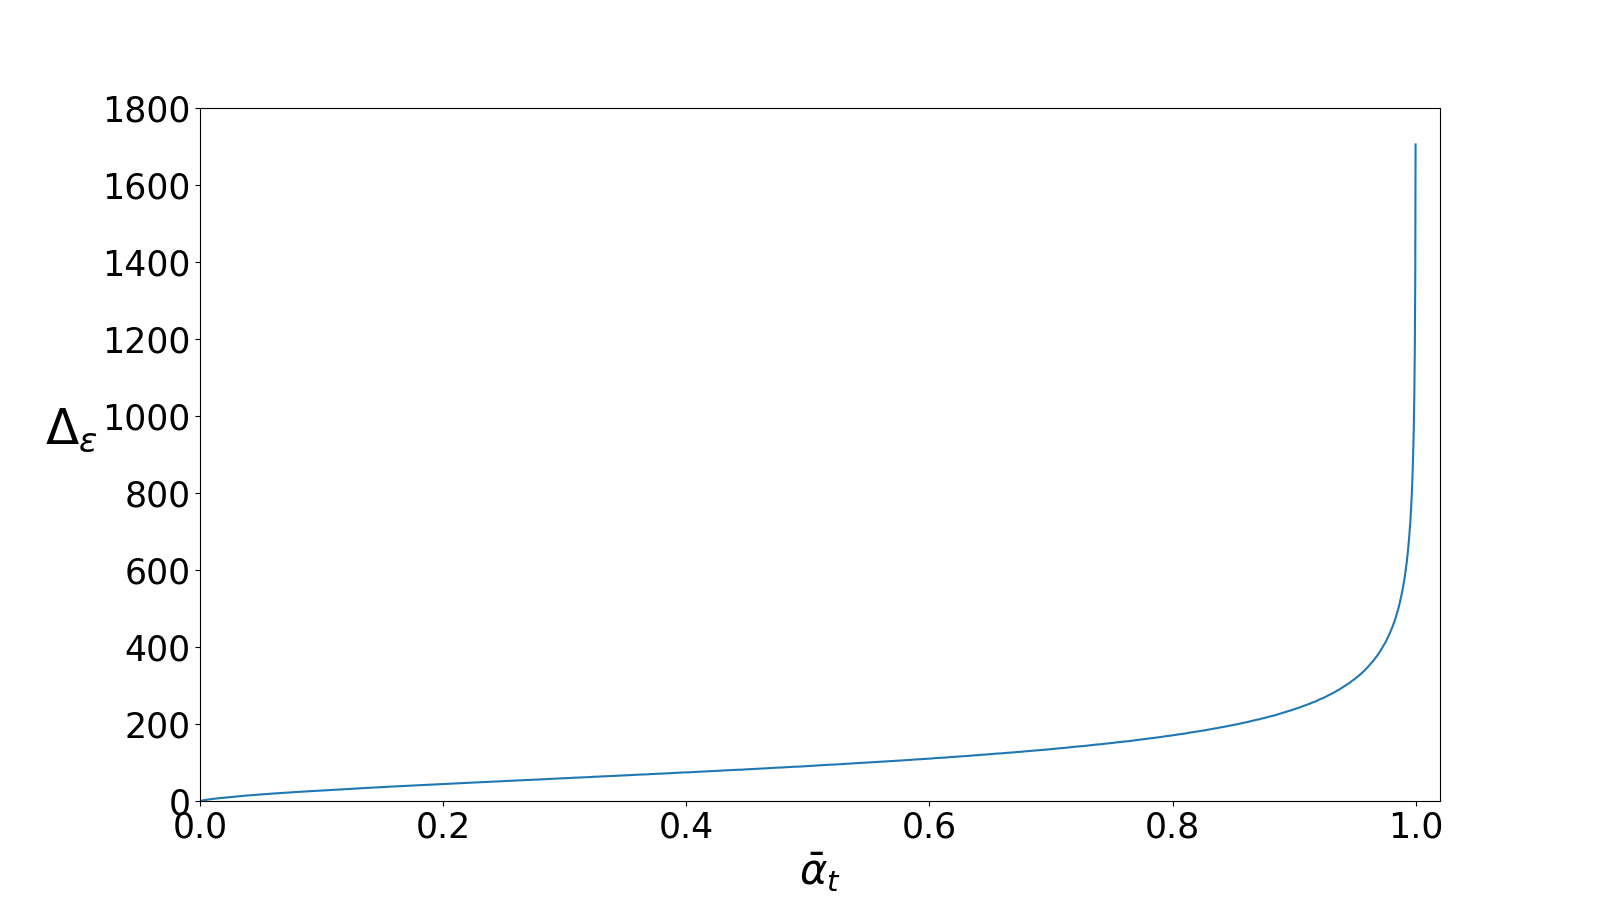
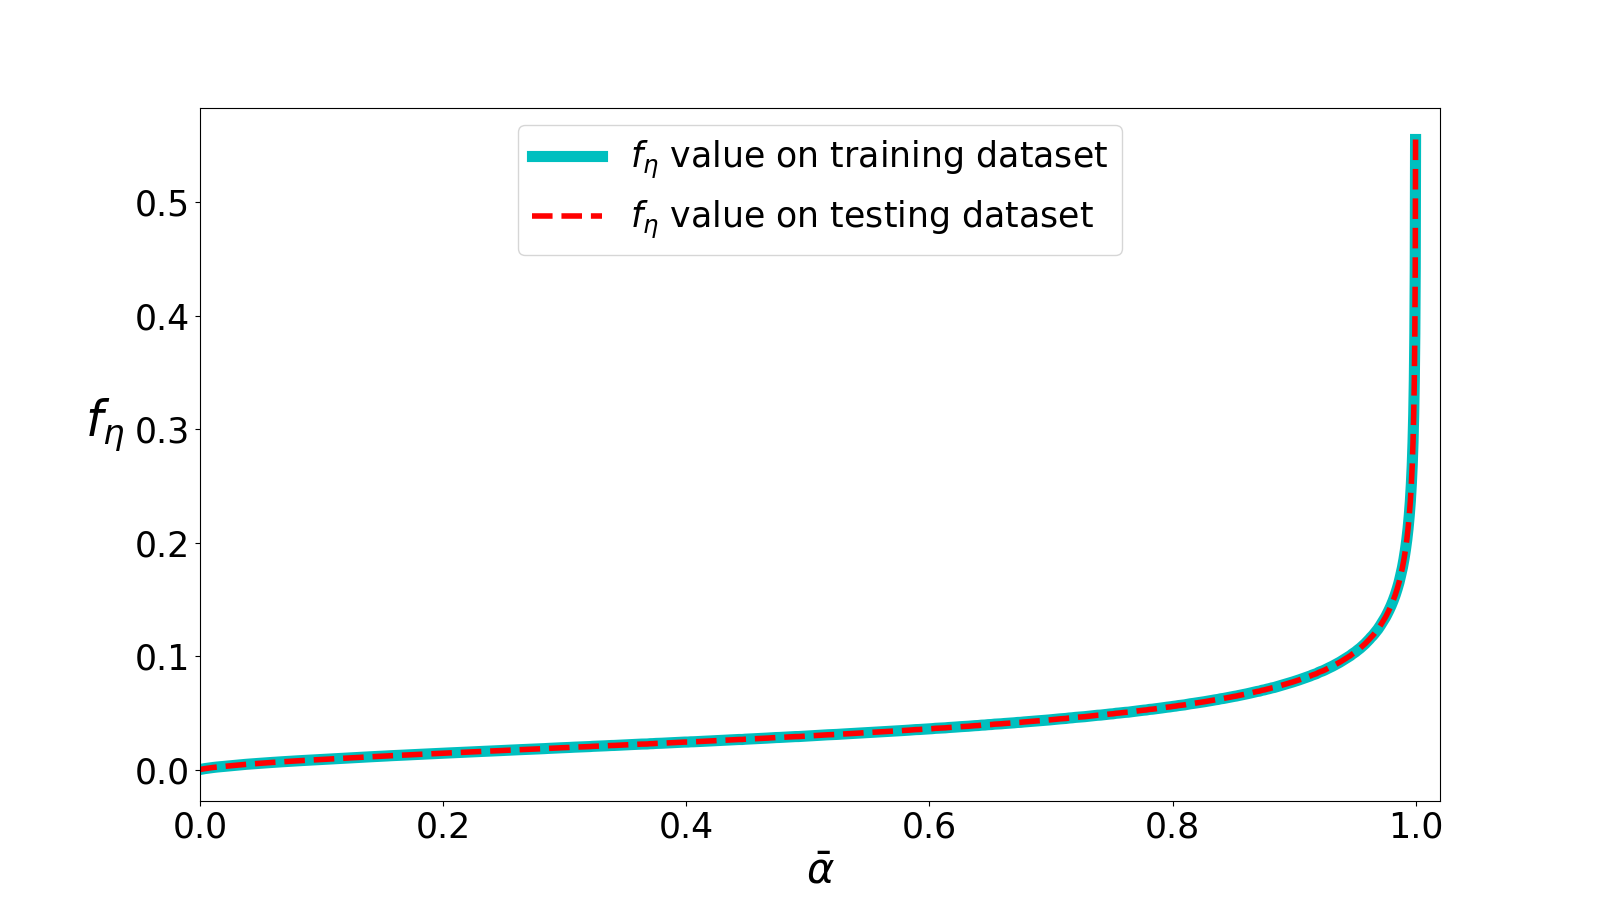
main_chart.py: prediction error compare between training data and testing data.

diff --git a/main_chart.py b/main_chart.py
@@ -63,7 +63,7 @@ def merge_image():
         tv.utils.save_image([i1, i2], f3, nrow=1)
 
 def mse_error_vs_alpha_bar():
-    mse_error = [1705.3052, 1490.751, 1357.769, 1259.209, 1180.147, 1113.053, 1055.815, 1005.528, 961.6980, 922.2376,
+    mse_train = [1705.3052, 1490.751, 1357.769, 1259.209, 1180.147, 1113.053, 1055.815, 1005.528, 961.6980, 922.2376,
                  886.3626,  853.1224, 823.6397, 796.1513, 771.5246, 748.0213, 725.7368, 705.6533, 687.2634, 668.8577,
                  652.3686,  636.5029, 621.7116, 607.7314, 594.3815, 581.1665, 569.1201, 557.7317, 546.3212, 535.7988,
                  526.3934,  516.0354, 506.2507, 497.1383, 488.9288, 480.4435, 472.5754, 464.8413, 457.6023, 450.4096,
@@ -163,6 +163,106 @@ def mse_error_vs_alpha_bar():
                  0.0763,    0.0755,   0.0742,   0.0732,   0.0725,   0.0711,   0.0704,   0.0697,   0.0689,   0.0679,
                  0.0671,    0.0662,   0.0652,   0.0644,   0.0632,   0.0626,   0.0617,   0.0612,   0.0606,   0.0594,
                  0.0590,    0.0581,   0.0576,   0.0570,   0.0562,   0.0555,   0.0549,   0.0545,   0.0539,   0.0534]
+    mse_test  = [1705.305, 1490.751, 1357.769, 1259.209, 1180.147, 1113.052, 1055.814, 1005.528, 961.6980, 922.2376,
+                 886.3626, 853.1224, 823.6397, 796.1513, 771.5246, 748.0213, 725.7368, 705.6533, 687.2634, 668.8577,
+                 652.3686, 636.5029, 621.7116, 607.7314, 594.3815, 581.1665, 569.1201, 557.7317, 546.3212, 535.7988,
+                 526.3934, 516.0354, 506.2507, 497.1383, 488.9288, 480.4435, 472.5754, 464.8413, 457.6023, 450.4096,
+                 443.5321, 436.8423, 430.5373, 424.2699, 418.0489, 412.0598, 406.6159, 400.7833, 395.1656, 390.1971,
+                 385.0297, 379.6522, 375.0673, 370.0567, 365.7768, 361.3683, 357.5555, 352.8554, 348.5974, 344.4448,
+                 340.2772, 336.7190, 332.7570, 328.8578, 325.5562, 322.0782, 318.4112, 315.4662, 312.2982, 308.5296,
+                 305.5826, 302.5058, 299.2368, 296.7647, 293.5805, 290.5803, 287.8286, 284.9799, 282.5154, 279.5815,
+                 277.1923, 274.6056, 271.8127, 269.2436, 266.8705, 264.9790, 262.6287, 259.5336, 257.6445, 255.7327,
+                 253.2283, 251.1605, 248.8405, 247.1809, 245.1223, 242.9071, 240.9020, 238.6637, 236.9742, 235.1563,
+                 233.1047, 231.2142, 229.5569, 227.6611, 225.9228, 224.2408, 222.0648, 220.8499, 218.9794, 217.5237,
+                 215.6276, 214.4675, 212.2608, 211.2312, 209.5897, 207.9467, 206.5449, 204.8998, 203.5736, 201.9733,
+                 200.6272, 199.0281, 197.8833, 196.4148, 195.0383, 193.7037, 192.3497, 191.3696, 189.6585, 188.6138,
+                 187.2588, 185.8104, 184.6033, 183.3989, 182.2334, 180.9580, 179.9383, 178.8401, 177.8477, 176.3954,
+                 174.9611, 174.1767, 173.1423, 171.7789, 170.8738, 169.5992, 168.7716, 167.5242, 166.4832, 165.5540,
+                 164.3672, 163.3144, 162.6938, 161.2135, 160.5441, 159.3985, 158.4887, 157.5202, 156.3539, 155.2134,
+                 154.7291, 153.6995, 152.8994, 152.2177, 150.8117, 150.2221, 149.2547, 148.2679, 147.2931, 146.8859,
+                 145.9328, 145.1746, 143.8815, 143.0784, 142.4243, 141.6891, 141.1239, 140.0489, 139.3714, 138.2265,
+                 137.6741, 136.9887, 136.0607, 135.3512, 134.3541, 133.6739, 132.9657, 132.2595, 131.7923, 130.6665,
+                 130.1509, 129.3978, 128.7098, 127.7371, 127.3843, 126.4210, 125.8299, 125.1344, 124.5666, 123.7103,
+                 123.1872, 122.8112, 121.7882, 121.3710, 120.4093, 120.0775, 119.1173, 118.6743, 117.8459, 117.1546,
+                 116.7661, 116.1730, 115.4415, 114.8156, 114.3402, 113.6634, 112.7953, 112.3872, 111.7422, 111.5167,
+                 110.5641, 109.9418, 109.4167, 108.8275, 108.2795, 107.9979, 107.2655, 106.5904, 106.1220, 105.4803,
+                 104.9201, 104.3856, 103.8021, 103.4547, 102.7982, 102.3114, 101.8574, 101.2055, 100.5852, 100.2613,
+                 99.7880,  99.1088,  98.5425,  98.2047,  97.6593,  97.2044,  96.7800,  96.1823,  95.5994,  95.0609,
+                 94.7589,  94.2668,  93.9356,  93.4147,  92.7418,  92.1927,  91.8088,  91.1356,  90.7743,  90.4670,
+                 89.7975,  89.2281,  89.1319,  88.6145,  88.2058,  87.6820,  87.2445,  86.7831,  86.5592,  85.9622,
+                 85.5060,  85.0054,  84.5894,  84.1799,  83.8106,  83.3989,  83.0173,  82.4999,  82.0417,  81.2653,
+                 81.2808,  80.8565,  80.3103,  79.8974,  79.7311,  79.4685,  78.7124,  78.3692,  78.0367,  77.6269,
+                 77.2734,  76.8840,  76.3997,  76.1165,  75.6622,  75.0944,  74.9530,  74.3371,  74.3220,  73.8984,
+                 73.5931,  73.0424,  72.7156,  72.2662,  71.8400,  71.5151,  71.1261,  70.9025,  70.6319,  70.0502,
+                 69.8508,  69.1014,  69.1003,  68.8406,  68.4542,  68.0255,  67.5860,  67.1134,  66.9351,  66.6637,
+                 66.2207,  66.0162,  65.6299,  65.1595,  65.0152,  64.4956,  64.2421,  63.9557,  63.6129,  63.2795,
+                 62.8452,  62.7248,  62.1553,  61.8995,  61.5551,  61.1821,  61.0390,  60.8323,  60.4939,  60.0583,
+                 59.7300,  59.5000,  59.1240,  58.8828,  58.4195,  58.2287,  57.9792,  57.4583,  57.3090,  56.8279,
+                 56.5400,  56.2844,  56.1274,  55.7306,  55.4490,  55.0650,  54.9266,  54.5190,  54.2934,  54.1284,
+                 53.7494,  53.4853,  53.1171,  52.7800,  52.4800,  52.2412,  52.1112,  51.7029,  51.3073,  51.1136,
+                 50.8783,  50.6329,  50.3606,  50.0936,  49.8246,  49.5731,  49.2575,  48.9859,  48.6540,  48.5090,
+                 48.1911,  47.8937,  47.6356,  47.3534,  47.1068,  46.9312,  46.6893,  46.3831,  46.1534,  45.9448,
+                 45.6155,  45.1919,  45.0898,  44.7300,  44.6251,  44.3876,  44.1818,  43.7717,  43.5999,  43.3299,
+                 43.1016,  42.7425,  42.6224,  42.4013,  42.1593,  41.9861,  41.7675,  41.3717,  41.3062,  40.9605,
+                 40.7425,  40.5288,  40.2482,  39.9561,  39.6078,  39.4857,  39.3279,  39.0591,  38.8684,  38.5279,
+                 38.4205,  38.1757,  37.9486,  37.6957,  37.5541,  37.3968,  37.0005,  36.8150,  36.6904,  36.3720,
+                 36.0993,  35.9364,  35.6778,  35.5192,  35.3905,  35.0816,  34.9033,  34.6816,  34.4329,  34.2499,
+                 34.1554,  33.8467,  33.6169,  33.4850,  33.3221,  33.0967,  32.9200,  32.6799,  32.2654,  32.2300,
+                 32.0742,  31.8131,  31.5737,  31.4439,  31.3028,  30.9707,  30.8816,  30.6562,  30.4944,  30.3117,
+                 30.0670,  29.7857,  29.7729,  29.5308,  29.3334,  29.1710,  28.8725,  28.7110,  28.5622,  28.4895,
+                 28.2315,  27.9791,  27.8540,  27.6635,  27.4547,  27.2645,  27.1394,  26.9090,  26.7632,  26.6655,
+                 26.3945,  26.2840,  26.0380,  25.8927,  25.7174,  25.5010,  25.4538,  25.2507,  24.9989,  24.9146,
+                 24.7076,  24.5101,  24.4064,  24.1638,  23.9779,  23.9133,  23.6527,  23.5553,  23.4321,  23.2572,
+                 23.0916,  22.8914,  22.7866,  22.5256,  22.4829,  22.3053,  22.0151,  21.9661,  21.7823,  21.6602,
+                 21.5542,  21.4092,  21.1979,  21.1186,  20.8794,  20.7735,  20.5936,  20.4771,  20.2109,  20.1177,
+                 20.0373,  19.8644,  19.7863,  19.5815,  19.5352,  19.3412,  19.1337,  19.0215,  18.8967,  18.7244,
+                 18.6209,  18.5130,  18.3634,  18.2401,  18.0478,  17.9159,  17.7692,  17.6391,  17.5045,  17.3314,
+                 17.2776,  17.0462,  16.9875,  16.8460,  16.7033,  16.5932,  16.4773,  16.3641,  16.2631,  16.0627,
+                 15.9077,  15.8264,  15.6880,  15.5711,  15.4351,  15.3735,  15.2356,  15.1440,  14.9958,  14.9071,
+                 14.7987,  14.6219,  14.5455,  14.4000,  14.3279,  14.2387,  14.0416,  13.9980,  13.8611,  13.7467,
+                 13.6220,  13.5127,  13.3533,  13.2665,  13.1749,  13.0431,  12.9252,  12.7903,  12.7747,  12.5972,
+                 12.5234,  12.3913,  12.3456,  12.1978,  12.0667,  11.9872,  11.8891,  11.8044,  11.7197,  11.5707,
+                 11.5069,  11.3609,  11.3017,  11.1925,  11.0829,  11.0349,  10.9110,  10.8116,  10.6885,  10.6080,
+                 10.5097,  10.3895,  10.3698,  10.2470,  10.1835,  10.0406,  9.9988,   9.8740,   9.8244,   9.7626,
+                 9.6746,   9.5265,   9.4777,   9.3428,   9.2805,   9.2192,   9.1162,   9.0257,   8.9442,   8.8571,
+                 8.8033,   8.6783,   8.6282,   8.5601,   8.5016,   8.3815,   8.3250,   8.2468,   8.1347,   8.0871,
+                 8.0090,   7.9260,   7.8260,   7.7631,   7.6698,   7.6261,   7.5226,   7.4656,   7.3805,   7.3327,
+                 7.2780,   7.1562,   7.1322,   7.0521,   6.9706,   6.9255,   6.8230,   6.7577,   6.6908,   6.6331,
+                 6.5475,   6.5074,   6.4429,   6.3536,   6.2998,   6.2350,   6.1930,   6.1146,   6.0626,   5.9859,
+                 5.9490,   5.8717,   5.8143,   5.7384,   5.6807,   5.6592,   5.5733,   5.4847,   5.4663,   5.3975,
+                 5.3406,   5.2669,   5.2209,   5.1822,   5.1358,   5.0757,   5.0218,   4.9419,   4.9161,   4.8511,
+                 4.7959,   4.7468,   4.6944,   4.6639,   4.5952,   4.5509,   4.4910,   4.4641,   4.3970,   4.3181,
+                 4.2961,   4.2472,   4.1973,   4.1602,   4.0988,   4.0561,   4.0121,   3.9860,   3.9282,   3.8668,
+                 3.8278,   3.8096,   3.7524,   3.7088,   3.6546,   3.6081,   3.5748,   3.5301,   3.4875,   3.4438,
+                 3.4156,   3.3904,   3.3387,   3.3110,   3.2779,   3.2200,   3.1829,   3.1543,   3.1064,   3.0871,
+                 3.0319,   3.0032,   2.9609,   2.9311,   2.8902,   2.8703,   2.8185,   2.7919,   2.7621,   2.7262,
+                 2.6834,   2.6456,   2.6236,   2.5809,   2.5499,   2.5353,   2.4908,   2.4593,   2.4248,   2.4127,
+                 2.3570,   2.3430,   2.3093,   2.2847,   2.2549,   2.2303,   2.2040,   2.1728,   2.1403,   2.1183,
+                 2.0746,   2.0598,   2.0302,   2.0020,   1.9753,   1.9500,   1.9311,   1.9014,   1.8737,   1.8540,
+                 1.8303,   1.8133,   1.7846,   1.7690,   1.7401,   1.7202,   1.6929,   1.6726,   1.6482,   1.6256,
+                 1.6098,   1.5783,   1.5644,   1.5412,   1.5216,   1.4949,   1.4727,   1.4525,   1.4336,   1.4202,
+                 1.3965,   1.3793,   1.3589,   1.3382,   1.3218,   1.3019,   1.2904,   1.2681,   1.2452,   1.2260,
+                 1.2216,   1.2043,   1.1792,   1.1614,   1.1445,   1.1316,   1.1168,   1.0972,   1.0847,   1.0655,
+                 1.0544,   1.0372,   1.0191,   1.0066,   0.9883,   0.9772,   0.9592,   0.9515,   0.9359,   0.9224,
+                 0.9113,   0.8933,   0.8835,   0.8640,   0.8579,   0.8443,   0.8297,   0.8194,   0.8091,   0.7955,
+                 0.7828,   0.7699,   0.7583,   0.7480,   0.7361,   0.7268,   0.7133,   0.7029,   0.6918,   0.6838,
+                 0.6711,   0.6617,   0.6523,   0.6446,   0.6323,   0.6222,   0.6146,   0.6051,   0.5962,   0.5850,
+                 0.5750,   0.5679,   0.5565,   0.5493,   0.5428,   0.5331,   0.5255,   0.5161,   0.5093,   0.5021,
+                 0.4926,   0.4854,   0.4777,   0.4716,   0.4646,   0.4545,   0.4498,   0.4432,   0.4356,   0.4294,
+                 0.4214,   0.4138,   0.4087,   0.4018,   0.3950,   0.3899,   0.3835,   0.3764,   0.3731,   0.3649,
+                 0.3585,   0.3539,   0.3484,   0.3427,   0.3378,   0.3314,   0.3262,   0.3210,   0.3176,   0.3126,
+                 0.3059,   0.3018,   0.2968,   0.2914,   0.2876,   0.2825,   0.2789,   0.2745,   0.2700,   0.2659,
+                 0.2610,   0.2561,   0.2524,   0.2487,   0.2441,   0.2403,   0.2366,   0.2328,   0.2291,   0.2252,
+                 0.2214,   0.2180,   0.2142,   0.2111,   0.2081,   0.2049,   0.2015,   0.1980,   0.1954,   0.1918,
+                 0.1887,   0.1862,   0.1829,   0.1807,   0.1777,   0.1746,   0.1721,   0.1694,   0.1667,   0.1642,
+                 0.1612,   0.1592,   0.1564,   0.1540,   0.1521,   0.1494,   0.1471,   0.1447,   0.1428,   0.1400,
+                 0.1376,   0.1356,   0.1335,   0.1317,   0.1297,   0.1279,   0.1258,   0.1241,   0.1218,   0.1198,
+                 0.1183,   0.1168,   0.1153,   0.1135,   0.1118,   0.1099,   0.1080,   0.1067,   0.1050,   0.1035,
+                 0.1015,   0.1000,   0.0985,   0.0969,   0.0955,   0.0942,   0.0926,   0.0913,   0.0901,   0.0890,
+                 0.0880,   0.0870,   0.0861,   0.0848,   0.0835,   0.0821,   0.0806,   0.0802,   0.0788,   0.0775,
+                 0.0763,   0.0755,   0.0742,   0.0732,   0.0725,   0.0711,   0.0704,   0.0697,   0.0689,   0.0679,
+                 0.0671,   0.0662,   0.0652,   0.0644,   0.0632,   0.0626,   0.0617,   0.0612,   0.0606,   0.0594,
+                 0.0590,   0.0581,   0.0576,   0.0570,   0.0562,   0.0555,   0.0549,   0.0545,   0.0539,   0.0534,]
     alpha_bar = [0.999900, 0.999780, 0.999640, 0.999481, 0.999301, 0.999102, 0.998882, 0.998643, 0.998384, 0.998105,
                  0.997807, 0.997488, 0.997150, 0.996792, 0.996414, 0.996017, 0.995600, 0.995163, 0.994707, 0.994231,
                  0.993735, 0.993220, 0.992686, 0.992131, 0.991558, 0.990965, 0.990353, 0.989721, 0.989070, 0.988400,
@@ -266,13 +366,19 @@ def mse_error_vs_alpha_bar():
     fig = plt.figure(figsize=(16, 9))
     ax = fig.add_subplot(111)
     plt.xlim((0, 1.02))
-    plt.ylim((0, 1800))
-    plt.ylabel(r"$\Delta_{\epsilon}$    ", fontsize=35, rotation=0)  # make it horizontal
-    plt.xlabel(r"$\bar{\alpha}_{t}$", fontsize=30)
+    # plt.ylim((0, 1800))
+    plt.ylabel(r"$f_{\eta}$    ", fontsize=35, rotation=0)  # make it horizontal
+    plt.xlabel(r"$\bar{\alpha}$", fontsize=30)
     plt.yticks(fontsize=25)
     plt.xticks(fontsize=25)
 
-    ax.plot(alpha_bar, mse_error, '-')
+    mse_train = [f / 3072 for f in mse_train]
+    mse_test  = [f / 3072 for f in mse_test]
+    ax.plot(alpha_bar, mse_train, linestyle='-', linewidth=8, color='c',
+            label=r"$f_{\eta}$ value on training dataset")
+    ax.plot(alpha_bar, mse_test, linestyle='--', linewidth=4, color='r',
+            label=r"$f_{\eta}$ value on testing dataset")
+    ax.legend(fontsize=25, loc='upper center')
 
     plt.show()
     fig.savefig('./configs/chart/mse_error_vs_alpha_bar.png')
